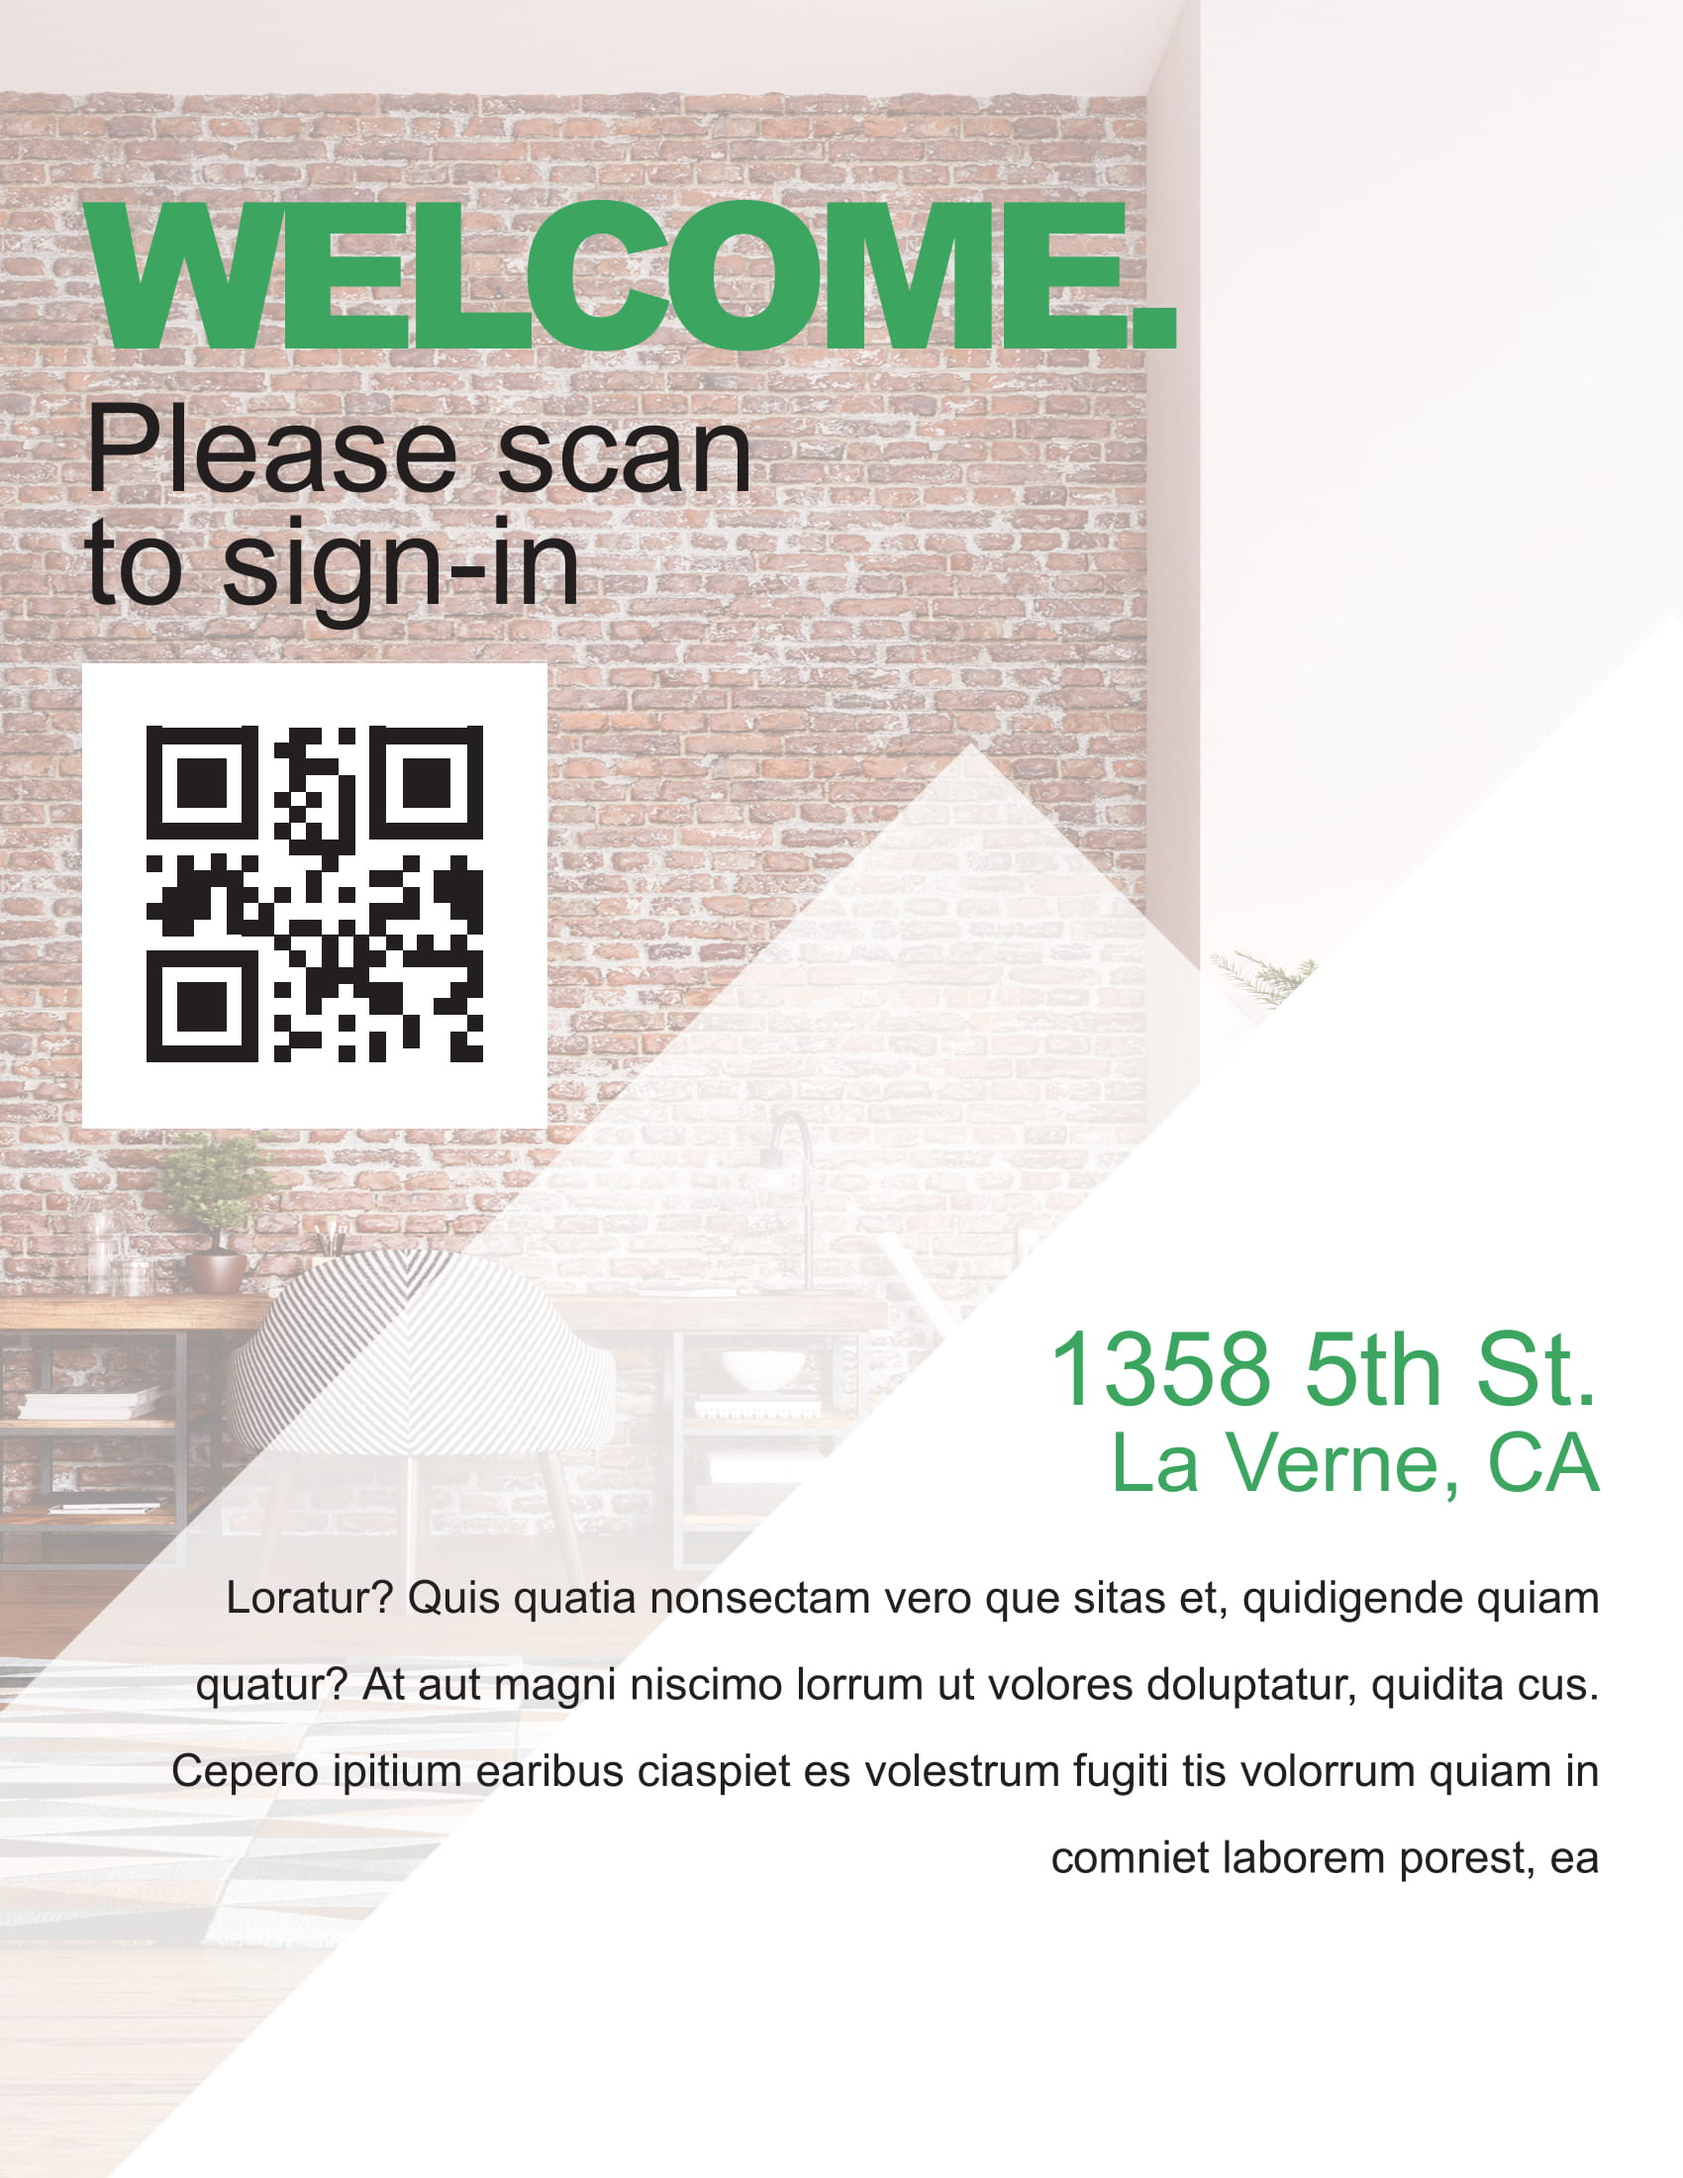
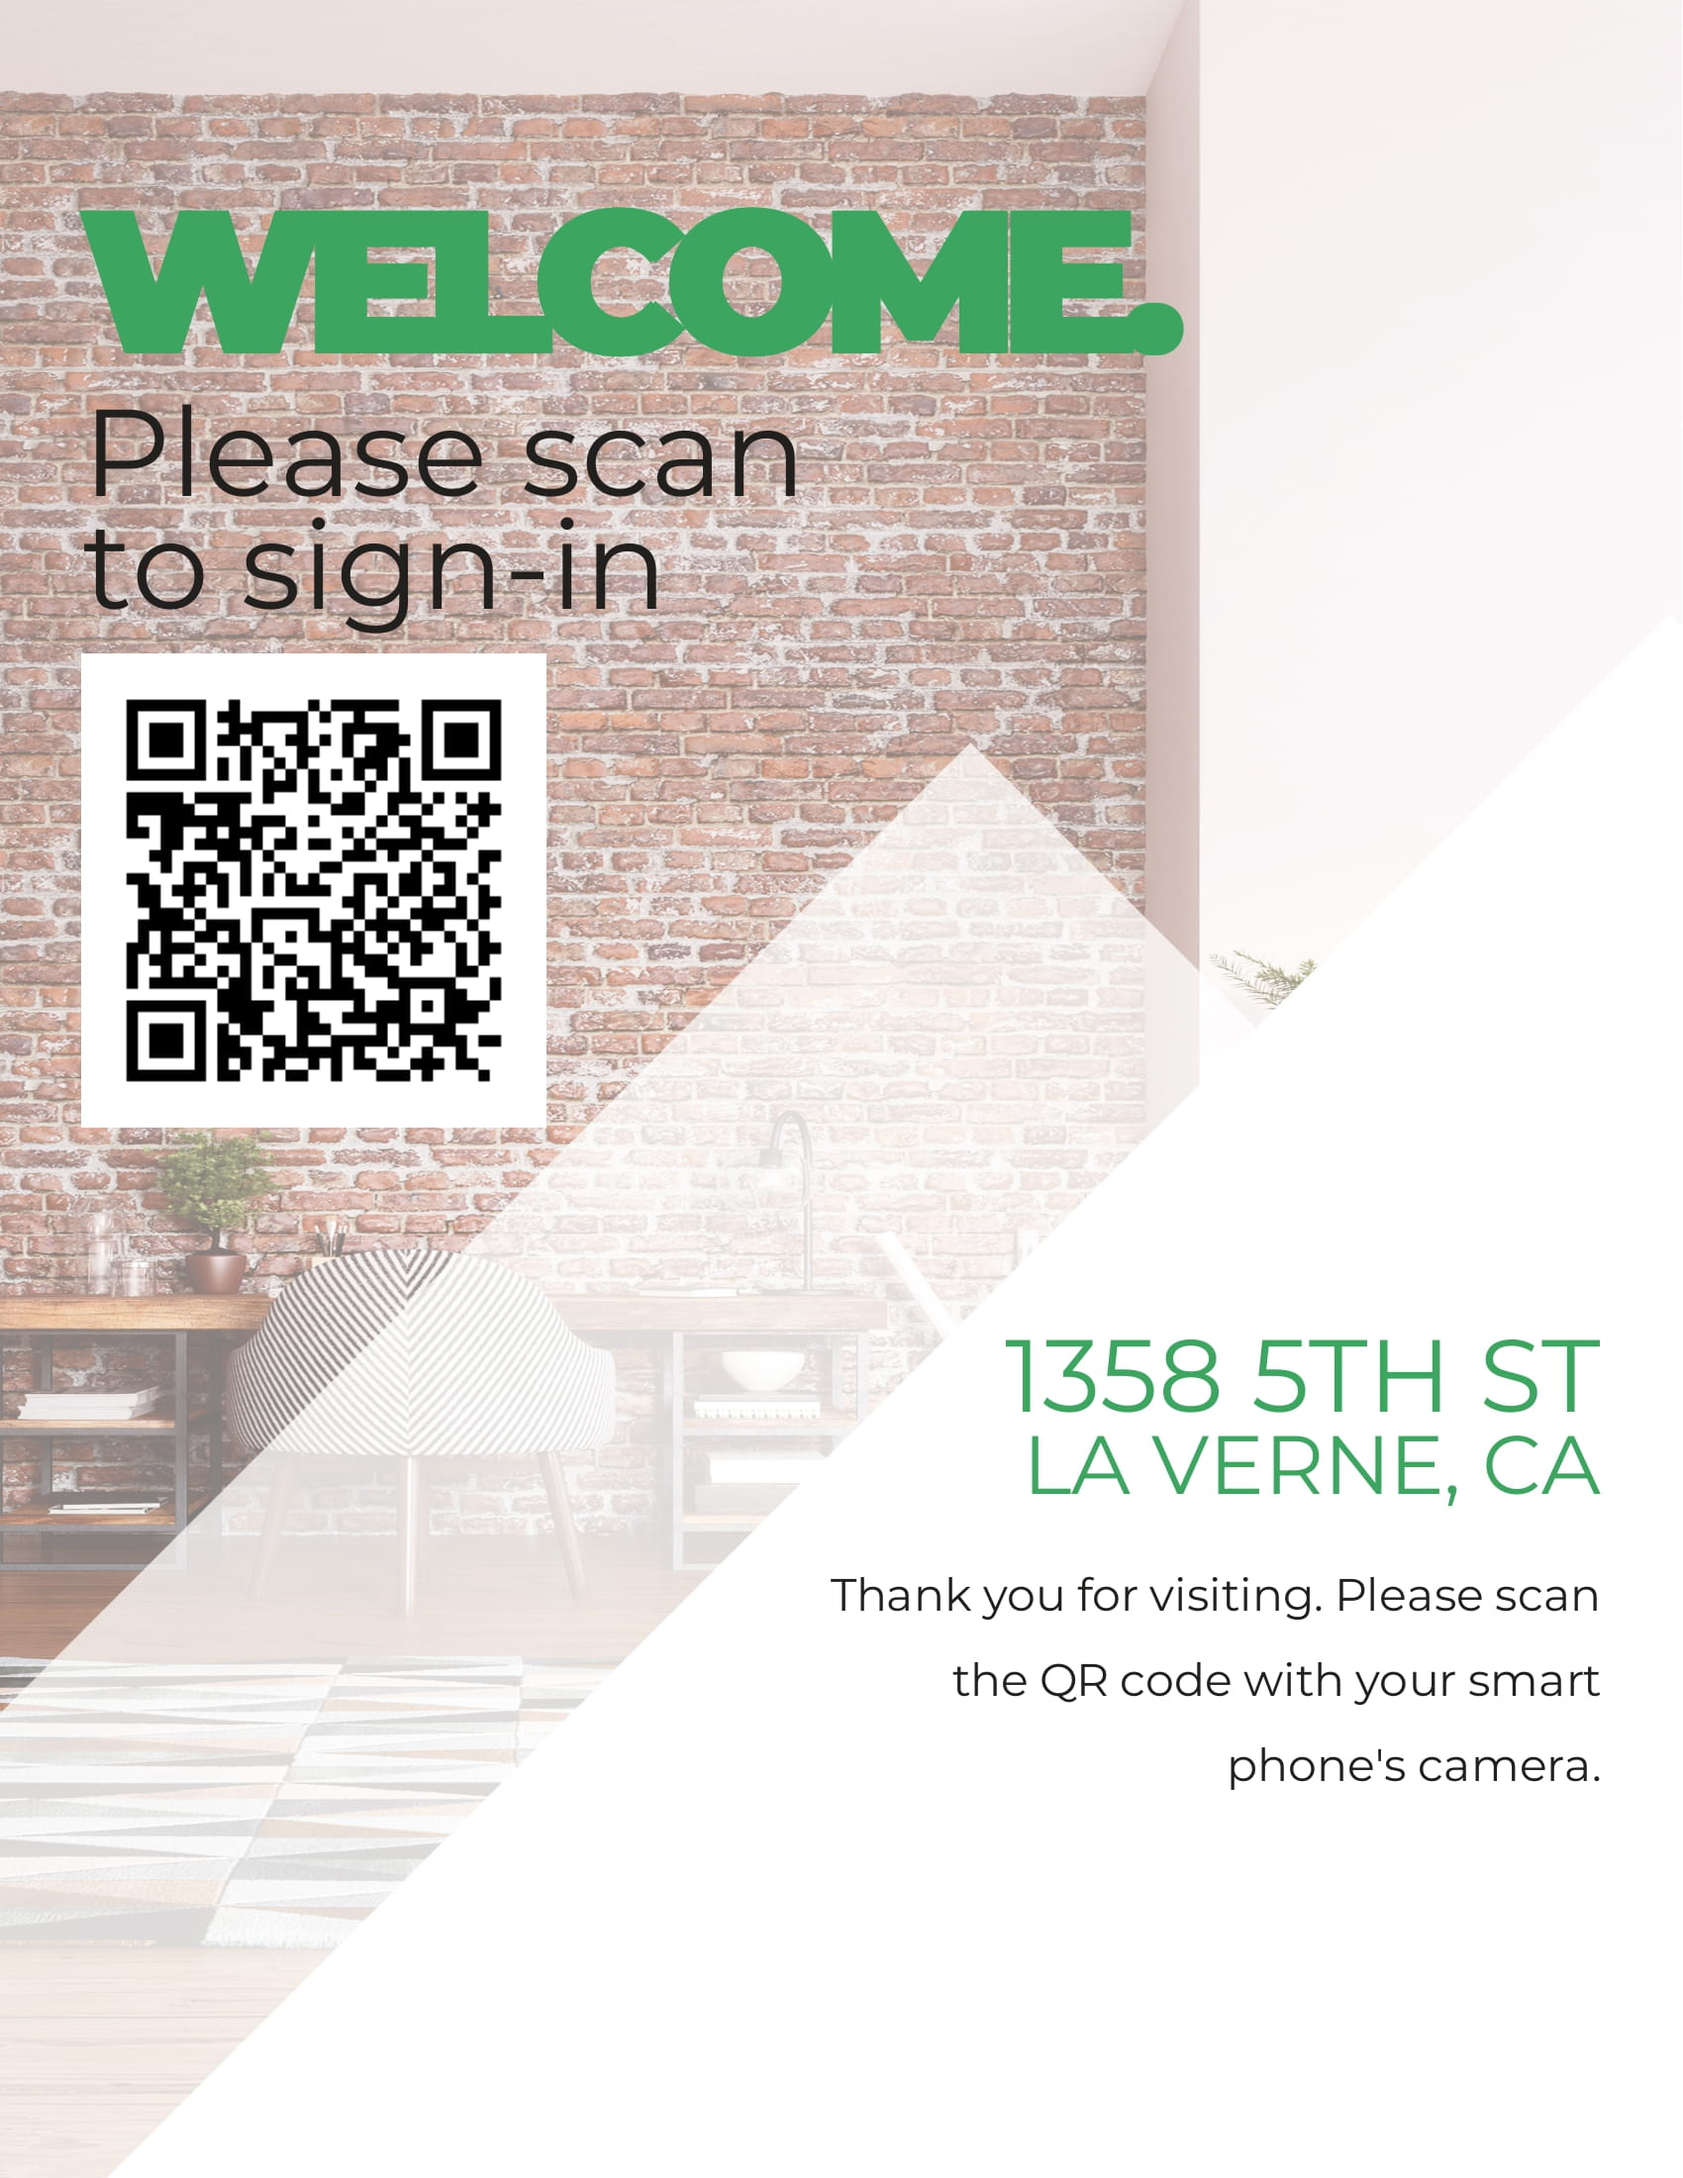
Registry changes and text fix

Changed region(s): [[0.0, 0.0309, 0.6859, 0.7727], [0.0935, 0.5873, 0.9665, 0.8655]]

diff --git a/application/views/reports/english/registry/pages/1.php b/application/views/reports/english/registry/pages/1.php
@@ -6,7 +6,7 @@
     <meta http-equiv="X-UA-Compatible" content="IE=edge">
     <meta name="viewport" content="width=device-width, initial-scale=1.0"> 
     <link rel="preconnect" href="https://fonts.gstatic.com">
-    <link href="https://fonts.googleapis.com/css?family=Montserrat:wght@300;400;500;600;700,900&display=swap" rel="stylesheet">
+    <link href="https://fonts.googleapis.com/css?family=Montserrat:wght@300,400,500,600,700,900&display=swap" rel="stylesheet">
     <link rel="stylesheet" href="<?php echo base_url("assets/reports/english/registry/1/style.css"); ?>">
 </head>
 <body>
@@ -19,10 +19,9 @@
         <img src="<?php echo $image; ?>" alt="QR Code" width="230" height="230">
         <h3 class="address"><?php echo $property->PropertyProfile->SiteAddress ; ?> <span><?php echo $property->PropertyProfile->SiteCity ; ?>, <?php echo $property->PropertyProfile->SiteState ; ?></span></h3>
         <p>
-            Loratur? Quis quatia nonsectam vero que sitas et, quidigende quiam
-            quatur? At aut magni niscimo lorrum ut volores doluptatur, quidita cus.
-            Cepero ipitium earibus ciaspiet es volestrum fugiti tis volorrum quiam
-            in comniet laborem porest, ea
+            Thank you for visiting. Please scan<br>
+            the QR code with your smart<br>
+            phone's camera.
         </p>
     </page>
 </body>

diff --git a/application/views/reports/english/registry/pages/4.php b/application/views/reports/english/registry/pages/4.php
@@ -18,7 +18,7 @@
         </h2>
         <div class="qr_bg">
             <?php
-            $image = base_url("user/generate_qr_code/$unique_key/6/".urlencode(json_encode([183,220,65]))."/".urlencode(json_encode([255,255,255])));
+            $image = base_url("user/generate_qr_code/$unique_key/10/".urlencode(json_encode([183,220,65]))."/".urlencode(json_encode([255,255,255])));
             ?>
             <img src="<?php echo $image; ?>" alt="QR Code" class="qr_img">
             <div>
@@ -26,7 +26,7 @@
                 <p>
                     Thank you for visiting. Please scan<br>
                     the QR code with your smart<br>
-                    phone’s camera.
+                    phone's camera.
                 </p>
             </div>
         </div>

diff --git a/application/views/reports/english/registry/pages/6.php b/application/views/reports/english/registry/pages/6.php
@@ -21,7 +21,7 @@
                 <p>
                     Thank you for visiting. Please scan<br>
                     the QR code with your smart<br>
-                    phone’s camera.
+                    phone's camera.
                 </p>
             </div>
             <?php

diff --git a/application/views/reports/english/registry/pages/5.php b/application/views/reports/english/registry/pages/5.php
@@ -25,7 +25,7 @@
                 <p>
                     Thank you for visiting. Please scan<br>
                     the QR code with your smart<br>
-                    phone’s camera.
+                    phone's camera.
                 </p>
             </div>
         </div>

diff --git a/application/views/reports/english/registry/pages/2.php b/application/views/reports/english/registry/pages/2.php
@@ -16,7 +16,7 @@
         <p>
             Thank you for visiting. Please scan<br>
             the QR code with your smart<br>
-            phone’s camera.
+            phone's camera.
         </p>
         <div class="qr_bg">
             <?php

diff --git a/application/views/reports/english/registry/pages/3.php b/application/views/reports/english/registry/pages/3.php
@@ -19,7 +19,7 @@
         <p>
             Thank you for visiting. Please scan<br>
             the QR code with your smart<br>
-            phone’s camera.
+            phone's camera.
         </p>
         <div class="qr_bg">
             <?php
